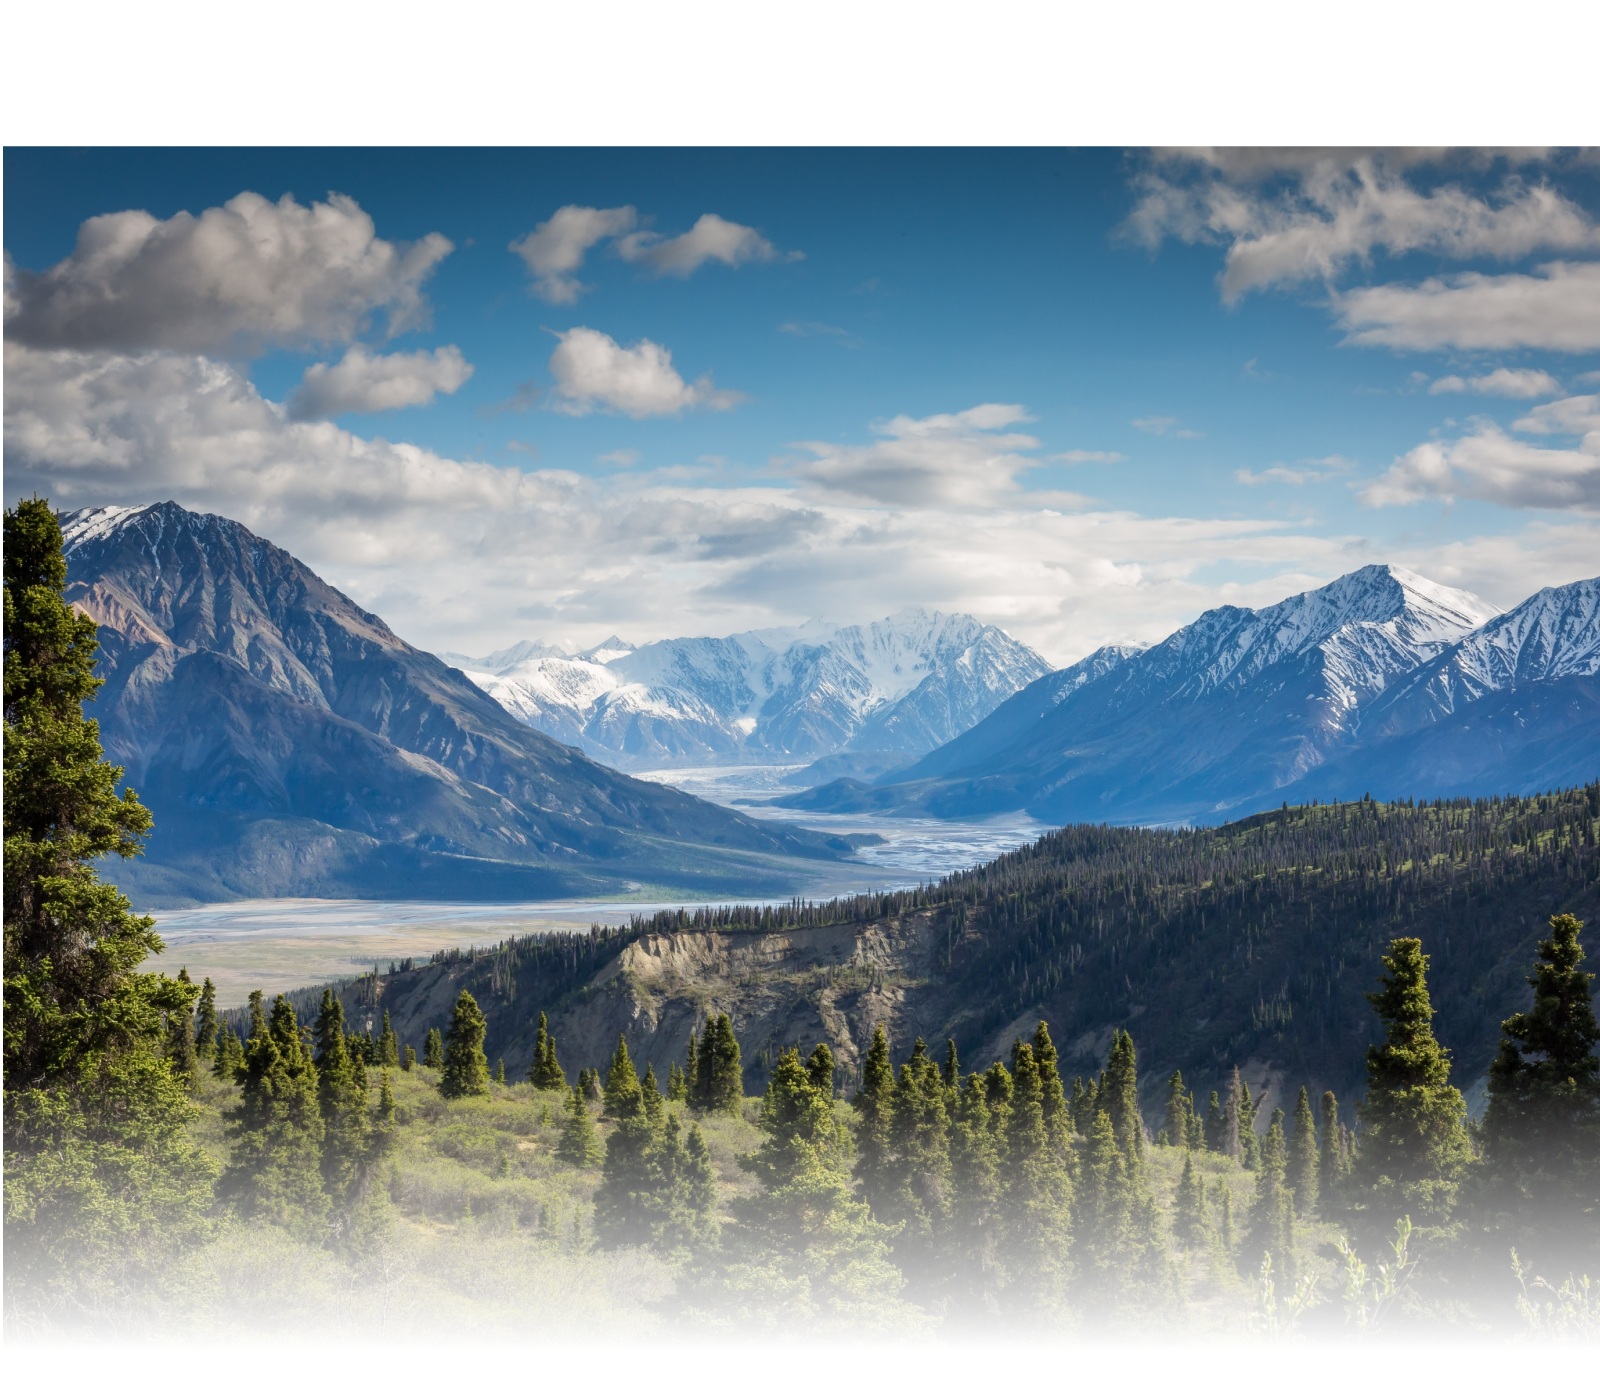
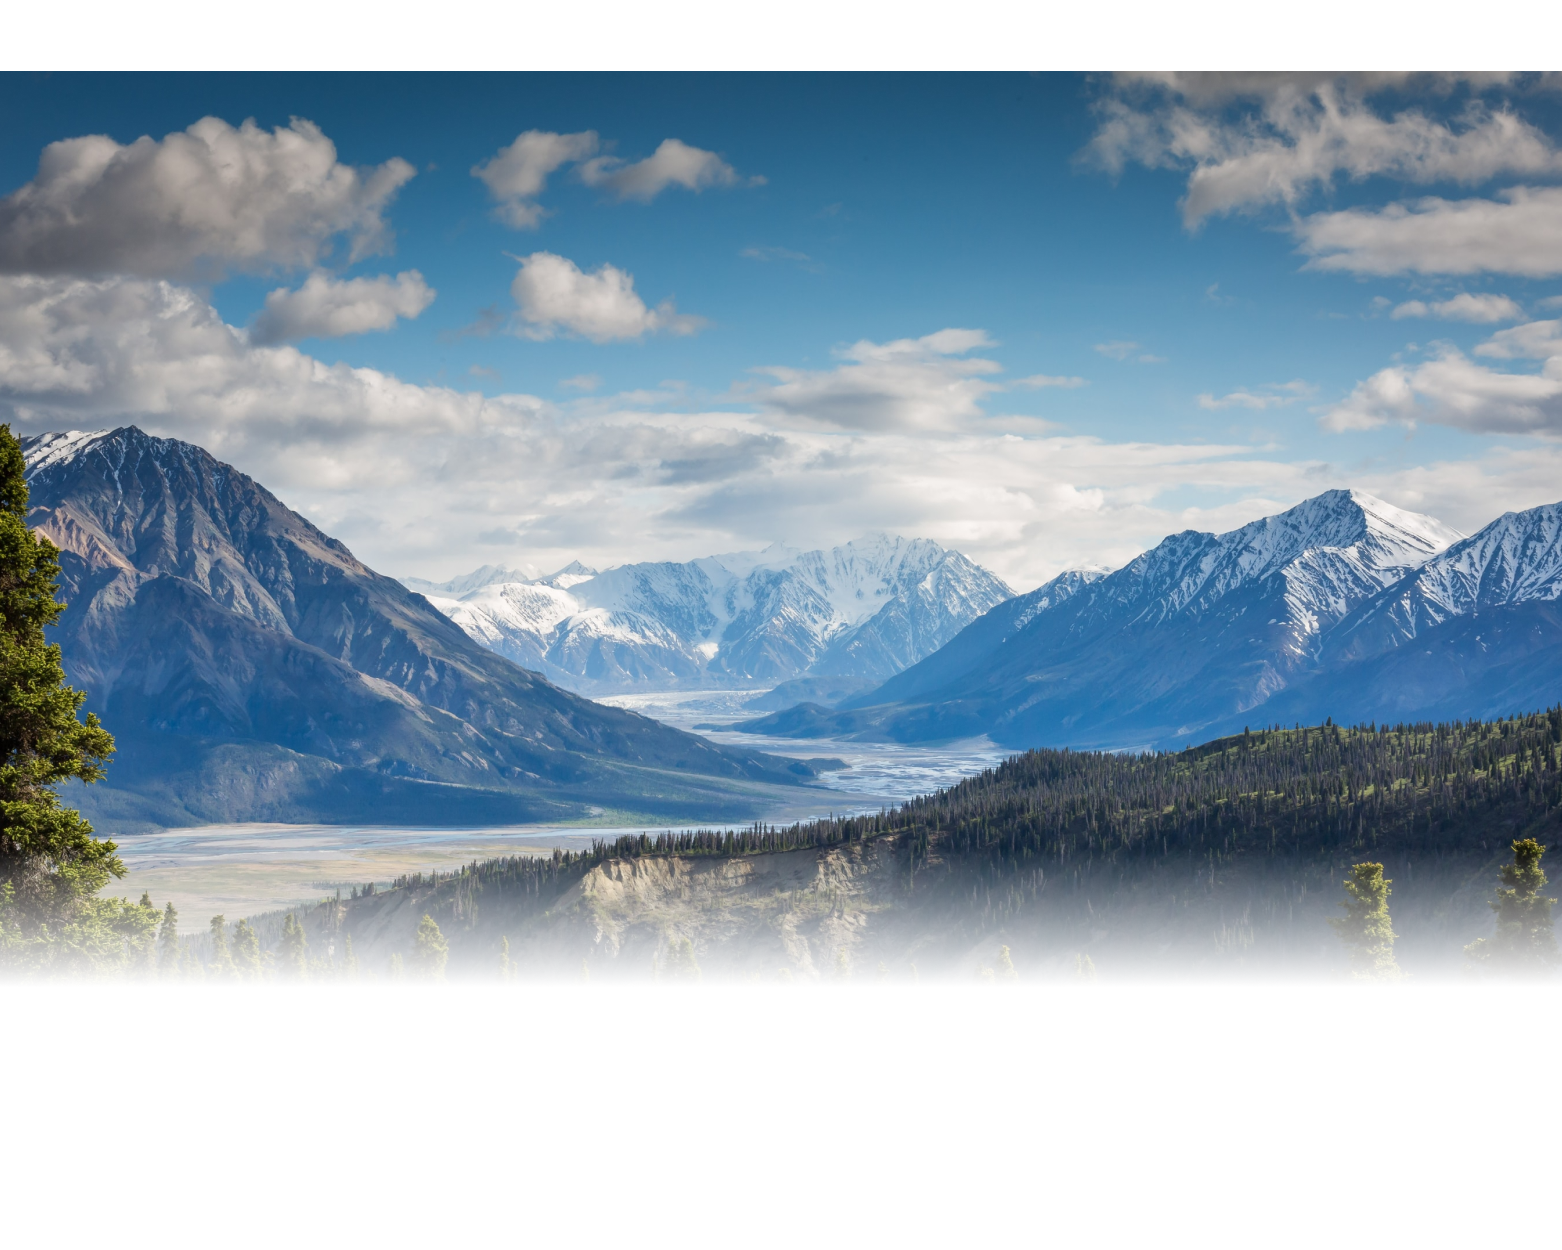
20220228

diff --git a/03travel/subpage.html b/03travel/subpage.html
@@ -1,0 +1,62 @@
+<!DOCTYPE html>
+<html lang="en">
+<head>
+    <meta charset="UTF-8">
+    <meta http-equiv="X-UA-Compatible" content="IE=edge">
+    <meta name="viewport" content="width=device-width, initial-scale=1.0">
+    <title>Document</title>
+    <link rel="stylesheet" href="css/reset.css">
+    <link rel="stylesheet" href="css/style.css">
+</head>
+<body>
+    <div class="wrapper">
+        <header>
+            <nav>
+                <h1>modutour</h1>
+                <img src="images/logo.png" alt="">
+                <div class="top">
+                    <div class="cotainer"></div>
+                </div>
+                <div class="wrap">
+                    <form action="#">
+                        <label for="search">search</label>
+                        <input type="text" id="search" name="search" placeholder="검색어를 입력하세요" class="inp-search">
+                        <input type="submit" class="btn-search" value="button">
+                    </form>
+                </div>
+                <div class="gogo">안심여행 Go!Go!</div>
+                <div class="sns">
+                    <img src="images/f.jpg" alt="">
+                    <img src="images/t.jpg" alt="">
+                    <img src="images/b.jpg" alt="">
+                    <img src="images/in.jpg" alt="">
+                </div>
+            </nav>
+    </div>
+    <ul class="util">
+        <li><a href="#">해외여행</a></li>
+        <li><a href="#">국내/제주</a></li>
+        <li><a href="#">항공</a></li>
+        <li><a href="#">호텔</a></li>
+        <li><a href="#">투어/입장권</a></li>
+        <li><a href="#">차량서비스</a></li>
+        <div class="wall"></div>
+    </ul>
+    </header>
+    </div>
+    <section class="sub" > 
+   <img src="images/sub11.png" alt="">
+    </section>
+    <footer>
+        <ul class="clearfix">
+            <li><a href="#">이용약관</a></li>
+            <li><a href="#">개인정보취급방침</a></li>
+            <li><a href="#">사이트맵</a></li>
+            <li><a href="#">고객센터</a></li>
+            <li><a href="#">광고 및 제휴문의</a></li>
+        </ul>
+        <p>관광사업자 등록번호 : 1989-04(서울특별시 중구) | (주)모두투어네트워크 대표이사 : 우종웅<br>
+    상담문의 : 1544-5252 | FAX : 02-2021-7800 | 주소 : 서울특별시 중구 을지로 16 백남빌딩 5층</p>
+    </footer>
+</body>
+</html>

diff --git a/03travel/css/style.css b/03travel/css/style.css
@@ -141,9 +141,9 @@ section .bx-wrapper {
 .airport { background:#019B75;}
 
 .sliderPager{bottom: 0px;background: #026147;width: 132px;position:absolute;top:0;}
-.sliderPager .boxPager { display: block;}
+.sliderPager .boxPager { display: block;;}
 .sliderPager .boxPager a { 
-    display: block;height: 71px;line-height:71px;
+    display: block;height: 71px;line-height:71px;color: #fff;
     display: flex;justify-content: center;align-items: center;}
 section .top {width: 482px;height: 287px;position: relative;top: 56px;}
 section .wrapper {float:right; width: 350px;height: 287px; background: #fff;
@@ -243,7 +243,7 @@ legend{position: absolute;left: 0;top:-9999px;}
 
 
     body
-    {background-image: url(../images/Mask\ Group\ \(3\).png);
+    {background-image: url(../images/Mask.png);
     background-repeat: no-repeat;
     background-position: center;
     background-size: cover;
@@ -264,10 +264,10 @@ legend{position: absolute;left: 0;top:-9999px;}
      .lastWrap li:hover .viewer{top:0}
 
      footer{width: 980px;margin:0 auto;}
-   
+     footer ul {display: block;}
      footer li{float:left;padding-right:25px;padding-top: 10px;}
-     footer a{display:block;}
-     footer p{color:#c3c3c3;font-size:13px;}
+     footer a { display: block;}
+     footer p{color:#404142;font-size:13px;}
      
      
 

diff --git a/03travel/css/reset.css b/03travel/css/reset.css
@@ -2,5 +2,5 @@
 html,body{height: 100px;}
         *{margin:0px;padding: 0px;box-sizing: border-box;}
         li{list-style: none;}
-        a:link,a:visited{color: white;text-decoration:none;}
+        a:link,a:visited{color: black;text-decoration:none;}
         .clearfix:after{content: "";display: block;clear:both;}

diff --git a/03travel/index.html b/03travel/index.html
@@ -83,7 +83,7 @@
             </nav>
     </div>
     <ul class="util">
-        <li><a href="#">해외여행</a></li>
+        <li><a href="subpage.html">해외여행</a></li>
         <li><a href="#">국내/제주</a></li>
         <li><a href="#">항공</a></li>
         <li><a href="#">호텔</a></li>
